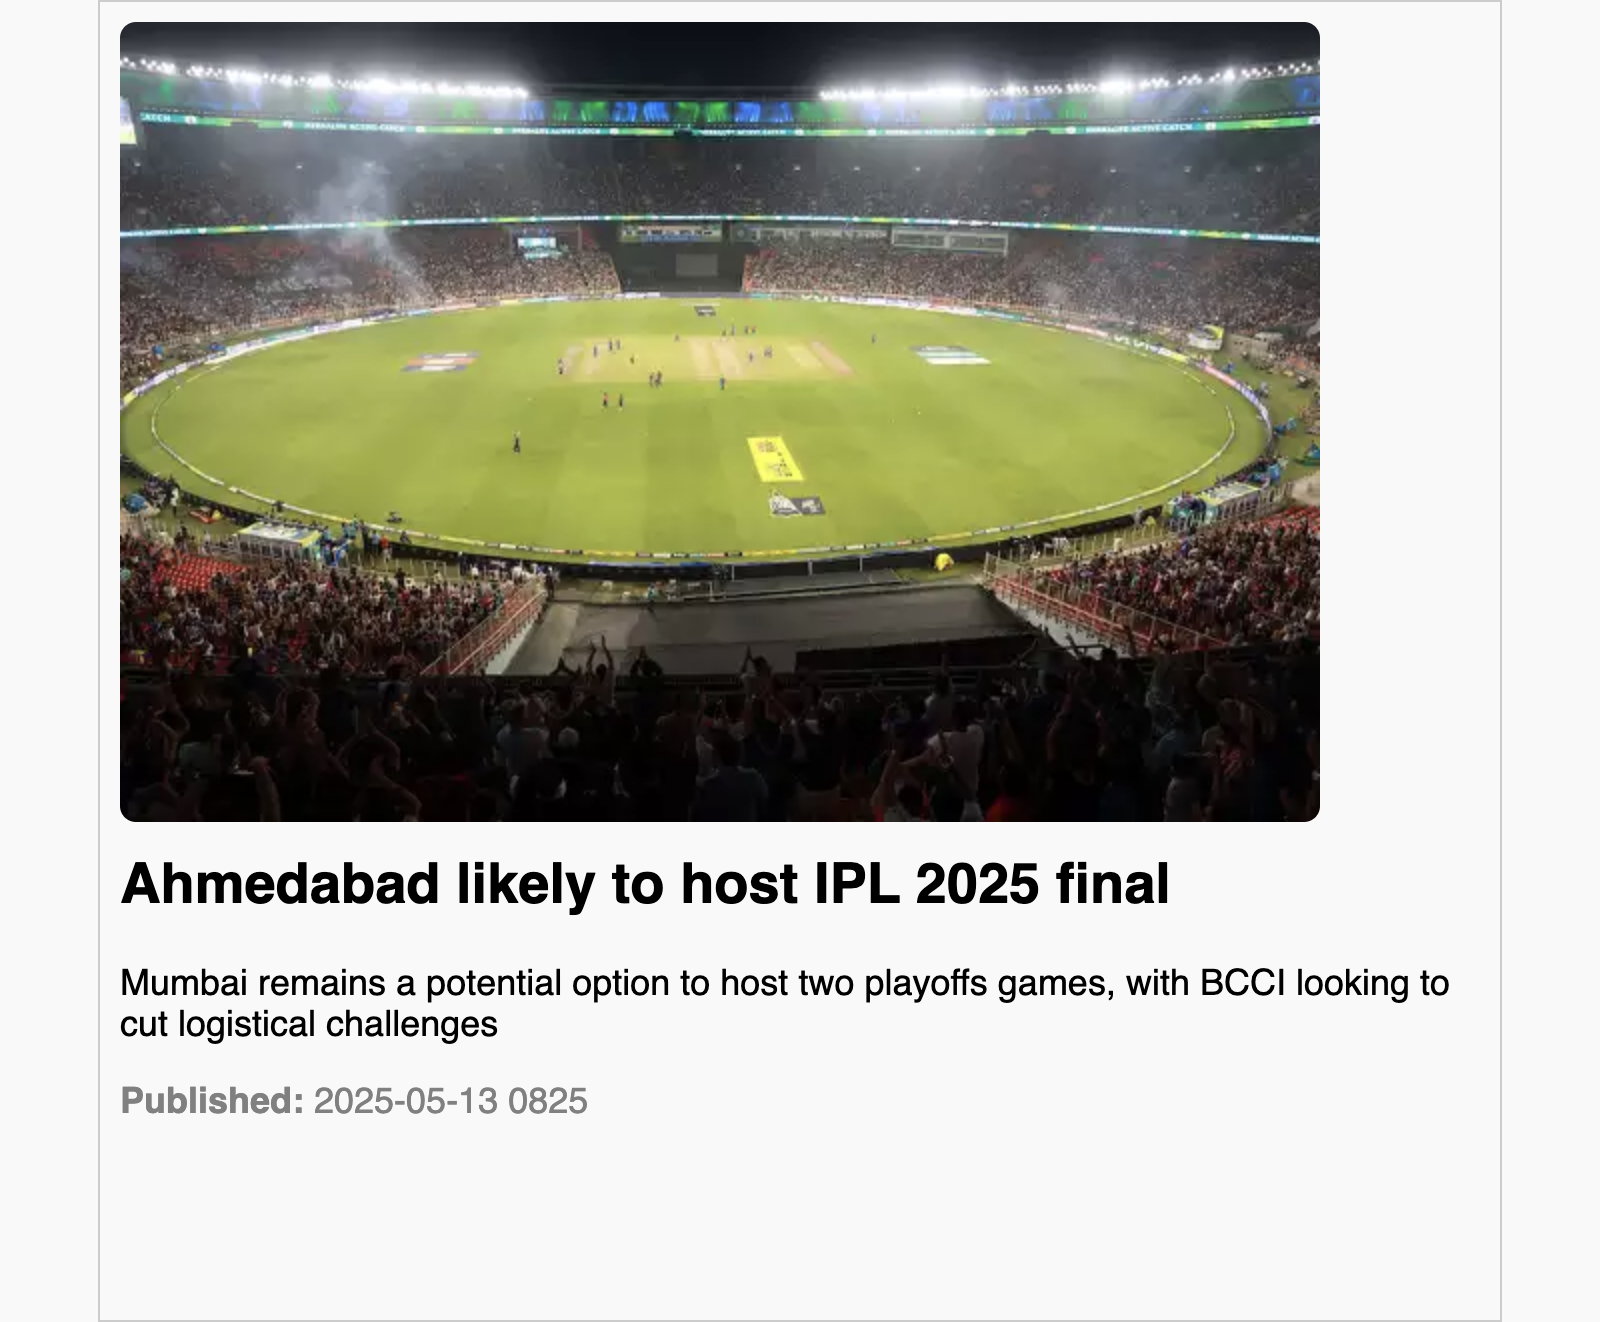
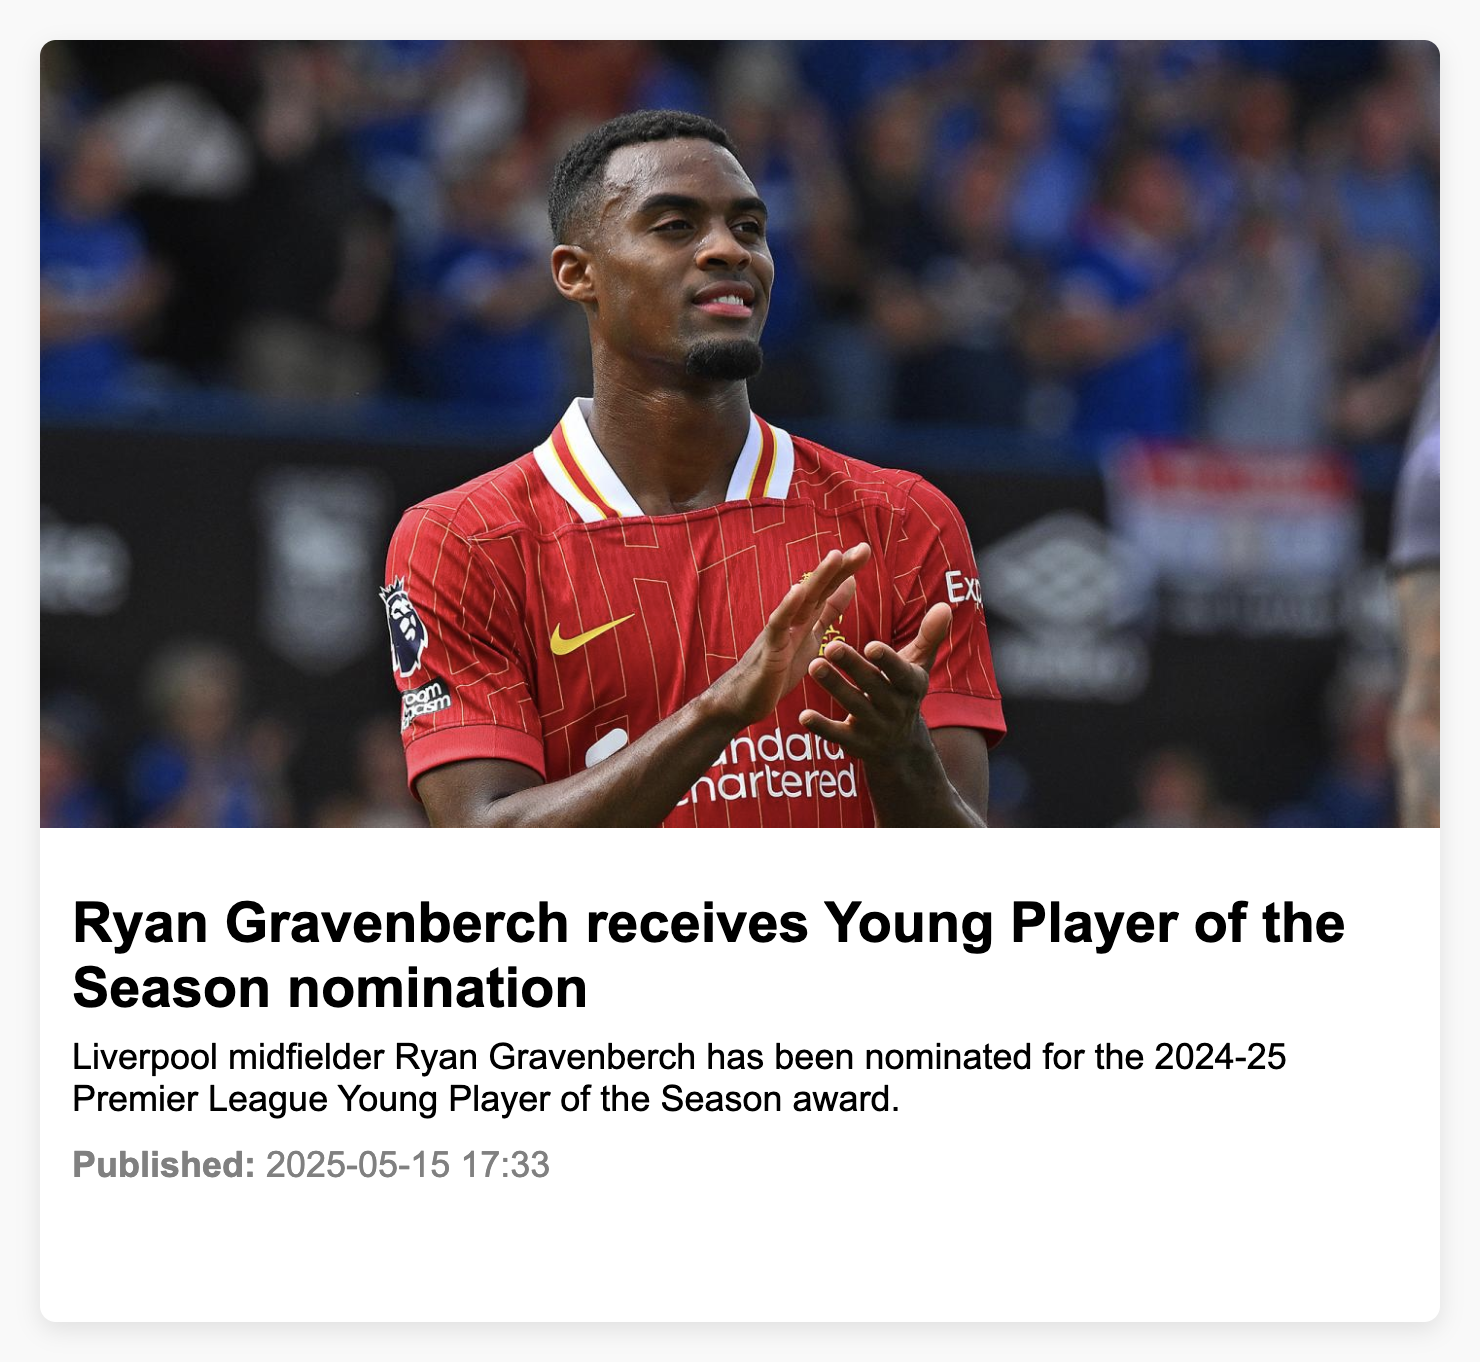
fix card sizes and make more style

diff --git a/news/utils/html_utils.py b/news/utils/html_utils.py
@@ -48,41 +48,65 @@ def create_html_card(article, output_path="temp.html"):
 
         html_template = """
         <html>
-            <head>
-                <style>
-                    body {{
-                        font-family: {font_family};
-                        width: {width}px;
-                        padding: 10px;
-                        margin: 0 auto;
-                        background-color: #f9f9f9;
-                    }}
-                    img {{
-                        max-width: 100%;
-                        height: auto;
-                        border-radius: {border_radius}px;
-                    }}
-                    h2 {{
-                        font-size: {title_size}px;
-                        margin-top: {title_margin}px;
-                    }}
-                    p {{
-                        font-size: {desc_size}px;
-                    }}
-                    .meta {{
-                        font-size: {meta_size}px;
-                        color: gray;
-                    }}
-                </style>
-            </head>
-            <body>
-                {image_html}
+          <head>
+            <style>
+              body {{
+                font-family: {font_family};
+                background-color: #f9f9f9;
+                margin: 0;
+                padding: 20px;
+                display: flex;
+                justify-content: center;
+              }}
+        
+              .card {{
+                width: {width}px;
+                background-color: white;
+                border-radius: {border_radius}px;
+                box-shadow: 0 4px 12px rgba(0, 0, 0, 0.1);
+                overflow: hidden;
+              }}
+        
+              .card img {{
+                width: 100%;
+                height: auto;
+                display: block;
+              }}
+        
+              .card-content {{
+                padding: 16px;
+              }}
+        
+              .card-content h2 {{
+                font-size: {title_size}px;
+                margin-top: {title_margin}px;
+                margin-bottom: 8px;
+              }}
+        
+              .card-content p {{
+                font-size: {desc_size}px;
+                margin: 8px 0;
+              }}
+        
+              .card-content .meta {{
+                font-size: {meta_size}px;
+                color: gray;
+                margin-top: 12px;
+              }}
+            </style>
+          </head>
+          <body>
+            <div class="card">
+              {image_html}
+              <div class="card-content">
                 <h2>{title}</h2>
                 <p>{description}</p>
                 <div class="meta">
-                    <p><b>Published:</b> {published}</p>
+                  <p><b>Published:</b> {published}</p>
                 </div>
-            </body>
+              </div>
+            </div>
+          </body>
         </html>
         """
 

diff --git a/settings.py b/settings.py
@@ -29,7 +29,7 @@ class NewsSettings:
     TOP_HEADLINES_ENDPOINT = "https://gnews.io/api/v4/top-headlines"
 
 class HTMLSettings:
-    CARD_WIDTH = 800
+    CARD_WIDTH = 720
     TITLE_FONT_SIZE = 28
     DESCRIPTION_FONT_SIZE = 18
     META_FONT_SIZE = 12
@@ -38,12 +38,12 @@ class HTMLSettings:
     FONT_FAMILY = "Arial, sans-serif" # For Hindi use: "Noto Sans Devanagari, Mangal, sans-serif";
 
 class VideoSettings:
-    IMAGE_HEIGHT = 720
+    IMAGE_HEIGHT = 800
     IMAGE_VERTICAL_OFFSET = 300
     VIDEO_CODEC = "libx264"
     AUDIO_CODEC = "aac"
-    WINDOW_WIDTH = 790
-    WINDOW_HEIGHT = 800
+    WINDOW_WIDTH = 740
+    WINDOW_HEIGHT = 820
     BROWSER_WAIT_TIME = 2  # seconds
 
 class YouTubeSettings:
